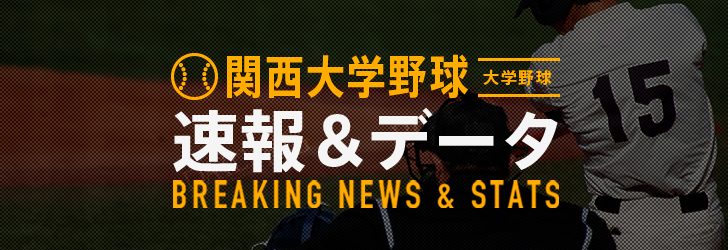
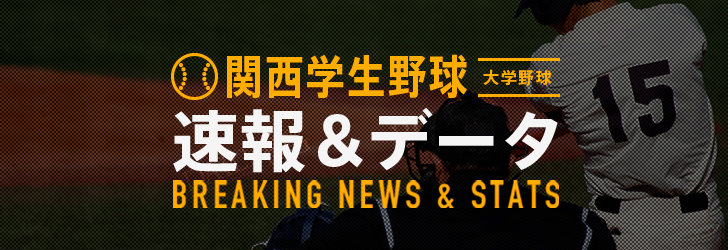
「関西大学野球」を「関西学生野球」に修正

Changed region(s): [[0.4231, 0.224, 0.544, 0.392], [0.5742, 0.224, 0.6648, 0.392]]

diff --git a/public/stats/ub_kansai/2017a/index.html b/public/stats/ub_kansai/2017a/index.html
@@ -7,26 +7,26 @@
         <script src="/assets/js/libs/sagen/sagen.min.js" id="sagen" data-browser="true"></script>
         <script src="/assets/js/app_divide.bundle.js"></script>
         <meta name="viewport" content="width=device-width, initial-scale=1, user-scalable=0">
-        <title>関西大学野球 2017秋季リーグ | 速報 & データ | スポーツブル / SPORTS BULL</title>
+        <title>関西学生野球 2017秋季リーグ | 速報 & データ | スポーツブル / SPORTS BULL</title>
         <script src="/assets/js/libs/vendor.react.js"></script>
         <script src="/assets/js/bundle/main.bundle.js"></script>
         <meta name="keywords" content="">
-        <meta name="description" content="関西大学野球 2017秋季リーグ 速報 & データ 見るならスポーツブルで。スポーツブルは、インターネットスポーツメディアです。数十社の良質なスポーツ媒体と連携し、話題のスポーツニュース記事、動画をいち早くお届けします。また、ここでしか見ることの出来ないオリジナル記事や、番組を配信しています。スマートフォンはもちろん、PC、タブレットでもお楽しみいただけます。">
+        <meta name="description" content="関西学生野球 2017秋季リーグ 速報 & データ 見るならスポーツブルで。スポーツブルは、インターネットスポーツメディアです。数十社の良質なスポーツ媒体と連携し、話題のスポーツニュース記事、動画をいち早くお届けします。また、ここでしか見ることの出来ないオリジナル記事や、番組を配信しています。スマートフォンはもちろん、PC、タブレットでもお楽しみいただけます。">
         <meta property="fb:app_id" content="842032129256034">
         <meta property="og:site_name" content="スポーツブル / SPORTS BULL">
         <meta property="og:type" content="article">
-        <meta property="og:title" content="関西大学野球 2017秋季リーグ | SPORTS BULL">
+        <meta property="og:title" content="関西学生野球 2017秋季リーグ | SPORTS BULL">
         <meta property="og:image" content="/stats/assets/univbb/img/OG_univ_kansai.jpg">
         <meta property="og:url" content="">
-        <meta property="og:description" content="関西大学野球 2017秋季リーグ 速報 & データ 見るならスポーツブルで。スポーツブルは、インターネットスポーツメディアです。数十社の良質なスポーツ媒体と連携し、話題のスポーツニュース記事、動画をいち早くお届けします。また、ここでしか見ることの出来ないオリジナル記事や、番組を配信しています。スマートフォンはもちろん、PC、タブレットでもお楽しみいただけます。">
+        <meta property="og:description" content="関西学生野球 2017秋季リーグ 速報 & データ 見るならスポーツブルで。スポーツブルは、インターネットスポーツメディアです。数十社の良質なスポーツ媒体と連携し、話題のスポーツニュース記事、動画をいち早くお届けします。また、ここでしか見ることの出来ないオリジナル記事や、番組を配信しています。スマートフォンはもちろん、PC、タブレットでもお楽しみいただけます。">
         <meta property="og:locale" content="ja_JP" />
         <!-- twitter card -->
         <meta name="twitter:card" content="summary_large_image">
         <meta name="twitter:site" content="@sportsbull_jp">
-        <meta name="twitter:title" content="関西大学野球 2017秋季リーグ| SPORTS BULL">
+        <meta name="twitter:title" content="関西学生野球 2017秋季リーグ| SPORTS BULL">
         <meta name="twitter:image" content="/stats/assets/univbb/img/OG_univ_kansai.jpg">
         <meta name="twitter:url" content="">
-        <meta name="twitter:description" content="関西大学野球 2017秋季リーグ 速報 & データ 見るならスポーツブルで。スポーツブルは、インターネットスポーツメディアです。数十社の良質なスポーツ媒体と連携し、話題のスポーツニュース記事、動画をいち早くお届けします。また、ここでしか見ることの出来ないオリジナル記事や、番組を配信しています。スマートフォンはもちろん、PC、タブレットでもお楽しみいただけます。">
+        <meta name="twitter:description" content="関西学生野球 2017秋季リーグ 速報 & データ 見るならスポーツブルで。スポーツブルは、インターネットスポーツメディアです。数十社の良質なスポーツ媒体と連携し、話題のスポーツニュース記事、動画をいち早くお届けします。また、ここでしか見ることの出来ないオリジナル記事や、番組を配信しています。スマートフォンはもちろん、PC、タブレットでもお楽しみいただけます。">
         <link rel="canonical" href="https://sportsbull.jp/stats/ub_kansai/2017a">
         <link rel="apple-touch-icon" sizes="180x180" href="https://sportsbull.jp/assets/sp/images/common/apple-touch-icon.png">
         <link rel="apple-touch-icon-precomposed" href="https://sportsbull.jp/assets/sp/images/common/apple-touch-icon.png">
@@ -129,7 +129,7 @@
                         <div class="stats-top-image">
                             <picture>
                                 <source media="(max-width: 768px)" srcset="/stats/assets/univbb/img/SP_stats_mlb_heading_kansai.jpg">
-                                <img src="/stats/assets/univbb/img/PC_stats_mlb_heading_kansai.jpg" alt="関西大学野球 速報&データ"> </picture>
+                                <img src="/stats/assets/univbb/img/PC_stats_mlb_heading_kansai.jpg" alt="関西学生野球 速報&データ"> </picture>
                         </div>
 
                         <div class="ub-ad-banner ub-ad-innerTop-banner">
@@ -304,7 +304,7 @@
                             </li>
                             <li itemprop="itemListElement" itemscope itemtype="http://schema.org/ListItem">
                                 <a itemprop="item" href="/stats/ub_kansai/">
-                                    <span itemprop="name">関西大学野球</span>
+                                    <span itemprop="name">関西学生野球</span>
                                     <meta itemprop="position" content="3" />
                                 </a>
                             </li>
@@ -421,7 +421,7 @@
                         </li>
                         <li itemprop="itemListElement" itemscope itemtype="http://schema.org/ListItem">
                             <a itemprop="item" href="/stats/ub_kansai/">
-                                <span itemprop="name">関西大学野球</span>
+                                <span itemprop="name">関西学生野球</span>
                                 <meta itemprop="position" content="3" />
                             </a>
                         </li>

diff --git a/public/stats/ub_kansai/2017a/standing/index.html b/public/stats/ub_kansai/2017a/standing/index.html
@@ -7,26 +7,26 @@
         <script src="/assets/js/libs/sagen/sagen.min.js" id="sagen" data-browser="true"></script>
         <script src="/assets/js/app_divide.bundle.js"></script>
         <meta name="viewport" content="width=device-width, initial-scale=1, user-scalable=0">
-        <title>順位表 | 関西大学野球 2017秋季リーグ | 速報 & データ | スポーツブル / SPORTS BULL</title>
+        <title>順位表 | 関西学生野球 2017秋季リーグ | 速報 & データ | スポーツブル / SPORTS BULL</title>
         <script src="/assets/js/libs/vendor.react.js"></script>
         <script src="/assets/js/bundle/main.bundle.js"></script>
         <meta name="keywords" content="">
-        <meta name="description" content="順位速報をお届けします。関西大学野球 2017秋季リーグ 速報 & データ　見るならスポーツブルで。スポーツブルは、インターネットスポーツメディアです。数十社の良質なスポーツ媒体と連携し、話題のスポーツニュース記事、動画をいち早くお届けします。また、ここでしか見ることの出来ないオリジナル記事や、番組を配信しています。スマートフォンはもちろん、PC、タブレットでもお楽しみいただけます。">
+        <meta name="description" content="順位速報をお届けします。関西学生野球 2017秋季リーグ 速報 & データ　見るならスポーツブルで。スポーツブルは、インターネットスポーツメディアです。数十社の良質なスポーツ媒体と連携し、話題のスポーツニュース記事、動画をいち早くお届けします。また、ここでしか見ることの出来ないオリジナル記事や、番組を配信しています。スマートフォンはもちろん、PC、タブレットでもお楽しみいただけます。">
         <meta property="fb:app_id" content="842032129256034">
         <meta property="og:site_name" content="スポーツブル / SPORTS BULL">
         <meta property="og:type" content="article">
-        <meta property="og:title" content="順位表 | 関西大学野球 2017秋季リーグ | 速報 & データ | SPORTS BULL">
+        <meta property="og:title" content="順位表 | 関西学生野球 2017秋季リーグ | 速報 & データ | SPORTS BULL">
         <meta property="og:image" content="/stats/assets/univbb/img/OG_univ_kansai.jpg">
         <meta property="og:url" content="https://sportsbull.jp/stats/ub_kansai/2017a/standing">
-        <meta property="og:description" content="順位速報をお届けします。関西大学野球 2017秋季リーグ 速報 & データ　見るならスポーツブルで。スポーツブルは、インターネットスポーツメディアです。数十社の良質なスポーツ媒体と連携し、話題のスポーツニュース記事、動画をいち早くお届けします。また、ここでしか見ることの出来ないオリジナル記事や、番組を配信しています。スマートフォンはもちろん、PC、タブレットでもお楽しみいただけます。">
+        <meta property="og:description" content="順位速報をお届けします。関西学生野球 2017秋季リーグ 速報 & データ　見るならスポーツブルで。スポーツブルは、インターネットスポーツメディアです。数十社の良質なスポーツ媒体と連携し、話題のスポーツニュース記事、動画をいち早くお届けします。また、ここでしか見ることの出来ないオリジナル記事や、番組を配信しています。スマートフォンはもちろん、PC、タブレットでもお楽しみいただけます。">
         <meta property="og:locale" content="ja_JP" />
         <!-- twitter card -->
         <meta name="twitter:card" content="summary_large_image">
         <meta name="twitter:site" content="@sportsbull_jp">
-        <meta name="twitter:title" content="順位表 | 関西大学野球 2017秋季リーグ | 速報 & データ | SPORTS BULL">
+        <meta name="twitter:title" content="順位表 | 関西学生野球 2017秋季リーグ | 速報 & データ | SPORTS BULL">
         <meta name="twitter:image" content="/stats/assets/univbb/img/OG_univ_kansai.jpg">
         <meta name="twitter:url" content="https://sportsbull.jp/stats/ub_kansai/2017a/standing">
-        <meta name="twitter:description" content=" 順位速報をお届けします。関西大学野球 2017秋季リーグ 速報 & データ　見るならスポーツブルで。スポーツブルは、インターネットスポーツメディアです。数十社の良質なスポーツ媒体と連携し、話題のスポーツニュース記事、動画をいち早くお届けします。また、ここでしか見ることの出来ないオリジナル記事や、番組を配信しています。スマートフォンはもちろん、PC、タブレットでもお楽しみいただけます。">
+        <meta name="twitter:description" content=" 順位速報をお届けします。関西学生野球 2017秋季リーグ 速報 & データ　見るならスポーツブルで。スポーツブルは、インターネットスポーツメディアです。数十社の良質なスポーツ媒体と連携し、話題のスポーツニュース記事、動画をいち早くお届けします。また、ここでしか見ることの出来ないオリジナル記事や、番組を配信しています。スマートフォンはもちろん、PC、タブレットでもお楽しみいただけます。">
         <link rel="canonical" href="https://sportsbull.jp/stats/ub_kansai/2017a/standing">
         <link rel="apple-touch-icon" sizes="180x180" href="https://sportsbull.jp/assets/sp/images/common/apple-touch-icon.png">
         <link rel="apple-touch-icon-precomposed" href="https://sportsbull.jp/assets/sp/images/common/apple-touch-icon.png">
@@ -129,7 +129,7 @@
                         <div class="stats-top-image">
                             <picture>
                                 <source media="(max-width: 768px)" srcset="/stats/assets/univbb/img/SP_stats_mlb_heading_kansai.jpg">
-                                <img src="/stats/assets/univbb/img/PC_stats_mlb_heading_kansai.jpg" alt="関西大学野球 速報&データ"> </picture>
+                                <img src="/stats/assets/univbb/img/PC_stats_mlb_heading_kansai.jpg" alt="関西学生野球 速報&データ"> </picture>
                         </div>
 
                         <div class="ub-ad-banner ub-ad-innerTop-banner">
@@ -296,7 +296,7 @@
                             </li>
                             <li itemprop="itemListElement" itemscope itemtype="http://schema.org/ListItem">
                                 <a itemprop="item" href="/stats/ub_kansai/">
-                                    <span itemprop="name">関西大学野球</span>
+                                    <span itemprop="name">関西学生野球</span>
                                     <meta itemprop="position" content="3" />
                                 </a>
                             </li>

diff --git a/app/routes/stats.router.php b/app/routes/stats.router.php
@@ -775,7 +775,7 @@ $app->group('/stats', function () use($app) {
           $season_name = $year . $season_jp;
           $short_season_name = substr($season_name, 2);
 
-          $league_name = '関西大学野球';
+          $league_name = '関西学生野球';
           $team_and_date = implode('', [
             $visitor,
             ' vs ',
